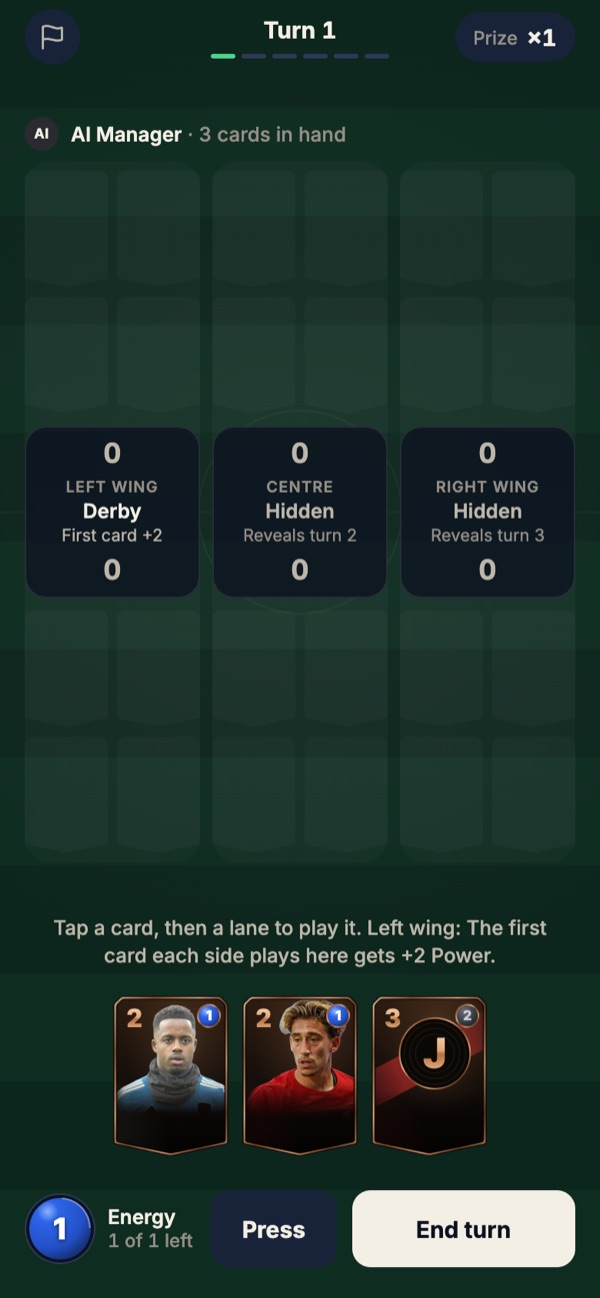
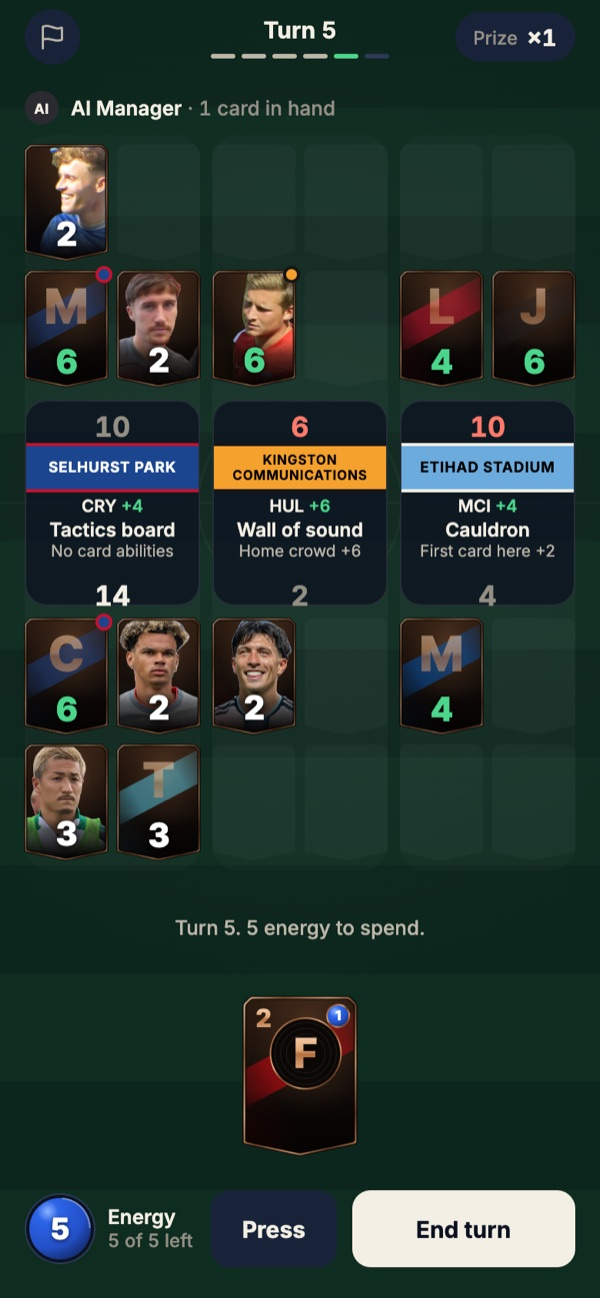
Duel plates fit long ground names; README shows the stadium board
groundLabel() gives the name a ground goes by when the official one won't
fit the ~110 pt band (drops a ' - ' subtitle, a trailing 'Stadium', or a
leading Estadio/Stadio/Stade/Stadion before a proper name, one step at a
time), with two smaller font steps for what's left. Screen readers still
get the full name. README's duel screenshot is the new stadium board.

diff --git a/app/arena.tsx b/app/arena.tsx
@@ -55,7 +55,7 @@ import {
   zoneTwist,
   zonePower,
 } from '../lib/game';
-import { TWISTS } from '../lib/stadiums';
+import { TWISTS, groundLabel } from '../lib/stadiums';
 import { ClubColors, contrast } from '../lib/colors';
 import type { PlayerCard } from '../lib/cards';
 import { color, CARD_RATIO, font, motion, radius, space } from '../constants/design';
@@ -258,6 +258,7 @@ function ZonePlate({ s, zone, roar }: { s: GameState; zone: Zone; roar: Roar | n
   const theirColor = lead === 'opponent' ? color.loss : lead === 'tie' ? color.text2 : color.text3;
   const myColor = lead === 'you' ? color.text : lead === 'tie' ? color.text2 : color.text3;
   const lit = !!roar && reduced; // reduced motion: the crowd line just stays lit for the step
+  const plateName = groundLabel(st.name);
   return (
     <View
       style={[styles.plate, roar && !reduced ? { zIndex: 5 } : null]}
@@ -266,8 +267,8 @@ function ZonePlate({ s, zone, roar }: { s: GameState; zone: Zone; roar: Roar | n
     >
       <TickNumber value={theirs} style={[styles.plateNum, { color: theirColor }]} />
       <View style={[styles.band, { backgroundColor: band, borderColor: kit?.secondary ?? color.hairlineStrong }]}>
-        <Text style={[styles.stadium, { color: bandInk }]} numberOfLines={2}>
-          {st.name}
+        <Text style={[styles.stadium, plateName.length > 18 && styles.stadiumLong, plateName.length > 26 && styles.stadiumLonger, { color: bandInk }]} numberOfLines={2}>
+          {plateName}
         </Text>
         <Animated.View pointerEvents="none" style={[StyleSheet.absoluteFill, { backgroundColor: '#FFFFFF' }, flashStyle]} />
       </View>
@@ -1073,6 +1074,8 @@ const styles = StyleSheet.create({
     textTransform: 'uppercase',
     textAlign: 'center',
   },
+  stadiumLong: { fontSize: 8.5, lineHeight: 10.5 },
+  stadiumLonger: { fontSize: 7.5, lineHeight: 9.5 },
   crowd: { height: 17, paddingHorizontal: 6, borderRadius: 9, justifyContent: 'center' },
   crowdText: { fontFamily: font.semibold, fontSize: 11, lineHeight: 14, color: color.text, fontVariant: ['tabular-nums'] },
   riser: { position: 'absolute', left: 0, right: 0, alignItems: 'center', zIndex: 5 },

diff --git a/tests/groundlabel.test.ts b/tests/groundlabel.test.ts
@@ -1,0 +1,24 @@
+import { describe, expect, it } from 'vitest';
+import { groundLabel } from '../lib/stadiums';
+
+describe('groundLabel', () => {
+  it('leaves short names alone', () => {
+    expect(groundLabel('Anfield')).toBe('Anfield');
+    expect(groundLabel('Old Trafford')).toBe('Old Trafford');
+  });
+  it('drops a generic trailing "Stadium" from long names', () => {
+    expect(groundLabel('Kingston Communications Stadium')).toBe('Kingston Communications');
+  });
+  it('drops a leading Estadio / Stadio / Stade / Stadion before a proper name', () => {
+    expect(groundLabel('Estadio Santiago Bernabéu')).toBe('Santiago Bernabéu');
+    expect(groundLabel('Stadio Giuseppe Meazza')).toBe('Giuseppe Meazza');
+    expect(groundLabel('Stade Sébastien Charléty')).toBe('Sébastien Charléty');
+  });
+  it('keeps the word when what follows is not a proper name', () => {
+    expect(groundLabel('Estadio de la Cerámica')).toBe('Estadio de la Cerámica');
+    expect(groundLabel('Stadion im Borussia-Park')).toBe('Stadion im Borussia-Park');
+  });
+  it('drops a " - " subtitle', () => {
+    expect(groundLabel('Mapei Stadium - Città del Tricolore')).toBe('Mapei Stadium');
+  });
+});

diff --git a/lib/stadiums.ts b/lib/stadiums.ts
@@ -94,3 +94,18 @@ export function pickStadiums(pool: Stadium[], decks: PlayerCard[][], seed: numbe
 /** Stand-in grounds when a competition lists no venues (and for tests): no home club. */
 export const PLAIN_STADIUMS = (twists: TwistId[] = ['neutral', 'neutral', 'neutral']): Stadium[] =>
   ['Left wing', 'Centre', 'Right wing'].map((name, i) => ({ name, clubs: [], codes: [], colors: [], twist: twists[i] }));
+
+/**
+ * The name a ground goes by, to fit the ~110 pt plate band (two lines): long official names drop a
+ * " - …" suffix, a trailing "Stadium" and a leading "Estadio" / "Stadio" / "Stade" / "Stadion"
+ * (only before a proper name: "Santiago Bernabéu", not "de la Cerámica"). Screen readers get the full name.
+ */
+export function groundLabel(name: string): string {
+  // each step only while the name is still too long, so "Mapei Stadium - …" stays "Mapei Stadium"
+  let v = name;
+  if (v.length > 18) v = v.split(/\s+-\s+/)[0];
+  if (v.length > 18) v = v.replace(/\s+Stadium$/i, '');
+  const m = v.length > 18 ? v.match(/^(?:Estadio|Estádio|Stadio|Stade|Stadion)\s+(.*)$/) : null;
+  if (m && /^\p{Lu}/u.test(m[1])) v = m[1];
+  return v;
+}

diff --git a/README.md b/README.md
@@ -56,7 +56,7 @@ stat lines and tilt-reactive foil. Design spec: [`docs/redesign/SPEC.md`](docs/r
 </p>
 <p>
   <img src="docs/screenshots/v2/4-pack.jpg" width="200" alt="Pack opening: a new Bronze card revealed, with its true-of-the-data ability">
-  <img src="docs/screenshots/v2/5-duel.jpg" width="200" alt="The duel board: a floodlit pitch with three zones, their conditions and Power totals, and the hand">
+  <img src="docs/screenshots/v2/5-duel.jpg" width="200" alt="The duel board: three real stadiums (Selhurst Park, Hull's Kingston Communications Stadium, the Etihad) in their home clubs' kits, each with its home-crowd boost and twist, Power totals and the hand">
   <img src="docs/screenshots/v2/6-match.jpg" width="200" alt="A match page split between the two kits: the model's chances, expected goals, your pick and the likeliest scores">
 </p>
 
